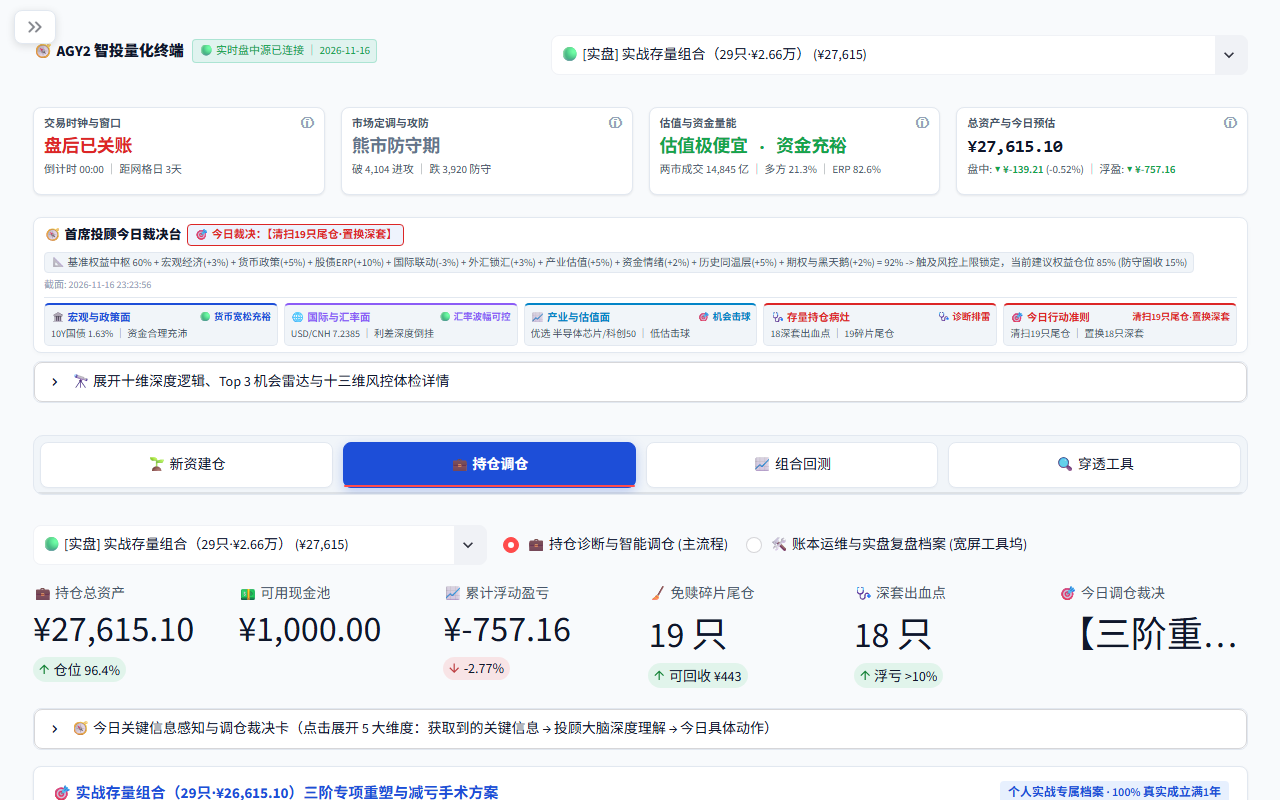
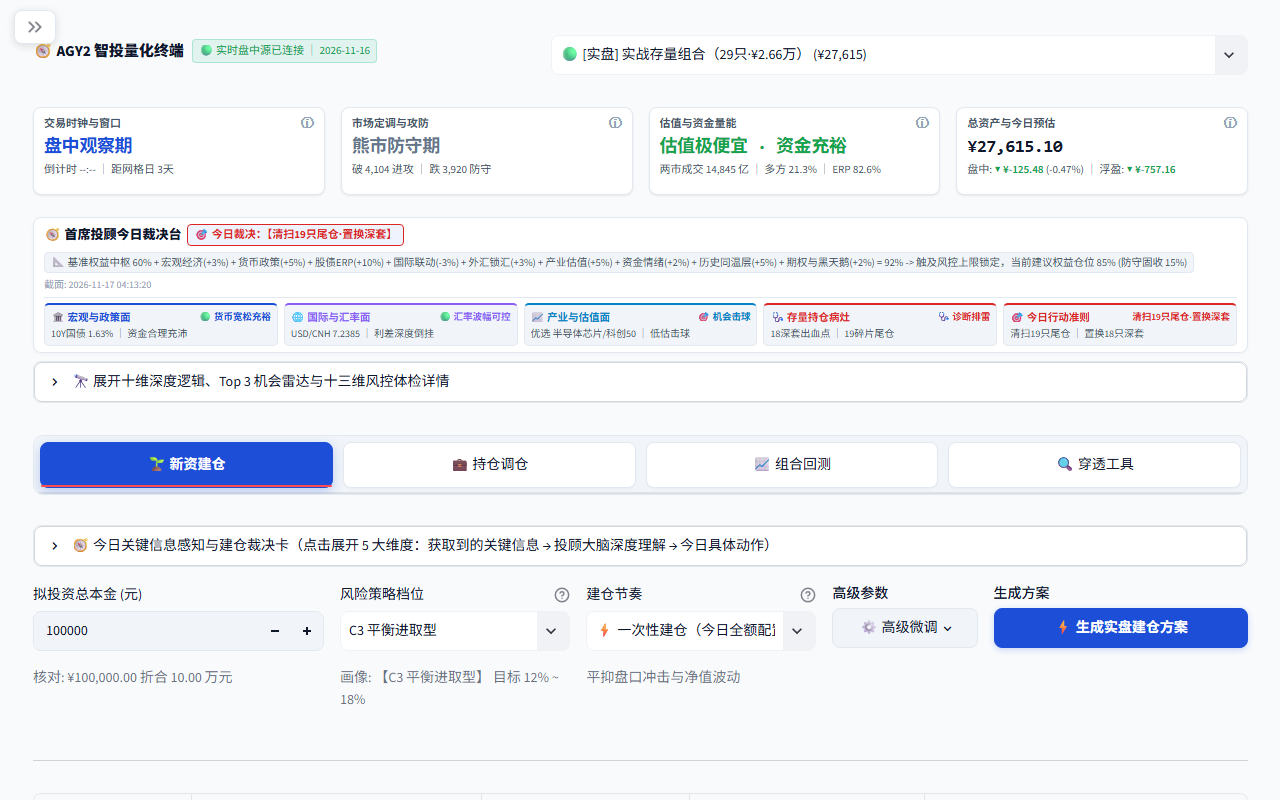
fix(G22.1): perfect closed premarket handling and pass all 4 browser viewport facts

diff --git a/AGY2_FundAdvisory/app_gui.py b/AGY2_FundAdvisory/app_gui.py
@@ -6349,9 +6349,9 @@ with tab_holdings_and_rebalance:
             # 诚实展示当日涨跌/收盘净值判断（区分收盘官方公布净值与盘中实时估值）
             try:
                 m_stat = clock.get_market_window_status(datetime.now())
-                is_market_closed = bool(m_stat.is_after_market or not m_stat.is_trade_day)
+                is_market_closed = bool(m_stat.is_after_market or not m_stat.is_trade_day or getattr(m_stat, "window_type", "") == "CLOSED_PREMARKET")
             except Exception:
-                is_market_closed = bool(datetime.now().time() >= datetime.strptime("15:00", "%H:%M").time() or datetime.now().weekday() >= 5)
+                is_market_closed = bool(datetime.now().time() >= datetime.strptime("15:00", "%H:%M").time() or datetime.now().weekday() >= 5 or datetime.now().time() < datetime.strptime("09:30", "%H:%M").time())
 
             is_official_nav_holdings = False
             if not df_disp.empty:

diff --git a/AGY2_FundAdvisory/strategy_bridge.py b/AGY2_FundAdvisory/strategy_bridge.py
@@ -4063,10 +4063,12 @@ class StrategyBridge:
                 realtime_gszzl = q.gszzl
                 realtime_est_pnl = round(mv * (q.gszzl / 100.0), 2)
                 realtime_gztime = q.gztime
+                is_official_nav = getattr(q, 'is_official_nav', False)
             except Exception:
                 realtime_gszzl = 0.0
                 realtime_est_pnl = 0.0
                 realtime_gztime = ""
+                is_official_nav = False
 
             items.append({
                 "fund_code": code,
@@ -4091,6 +4093,7 @@ class StrategyBridge:
                 "realtime_gszzl": realtime_gszzl,
                 "realtime_est_pnl": realtime_est_pnl,
                 "realtime_gztime": realtime_gztime,
+                "is_official_nav": is_official_nav,
                 "crowding_warning": crowding_warning,
                 "crowding_degree": crowding_degree,
                 "crowding_tip": crowding_tip,

diff --git a/scripts/verify_browser_viewports.py b/scripts/verify_browser_viewports.py
@@ -53,7 +53,13 @@ def run_browser_verification():
         page_dt.goto(APP_URL, wait_until="networkidle", timeout=60000)
         page_dt.wait_for_timeout(4000)
 
-        # 1. Fact 1 Check in Tab 1
+        # 1. Fact 1 Check in Tab 1 (ensure Tab 1 is clicked in case of auto-routing)
+        try:
+            page_dt.get_by_text('🌱 新资建仓').click()
+            page_dt.wait_for_timeout(2000)
+        except Exception:
+            pass
+
         t1_expander = page_dt.locator('div[data-testid="stExpander"]').filter(has_text="今日关键信息感知与建仓裁决卡").first
         t1_causal_collapsed = False
         if t1_expander.count() > 0:
